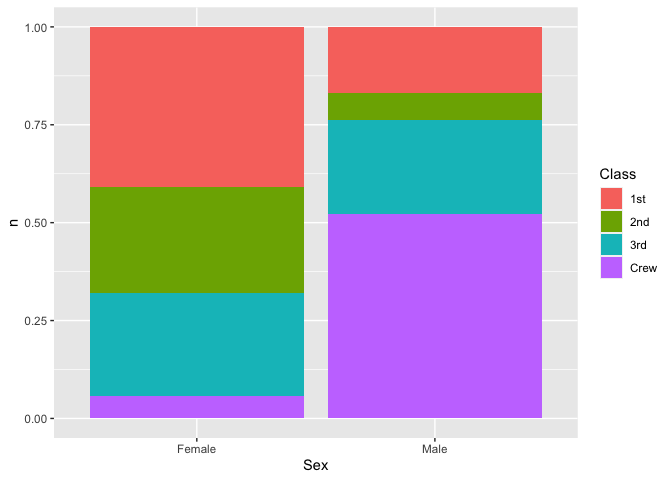
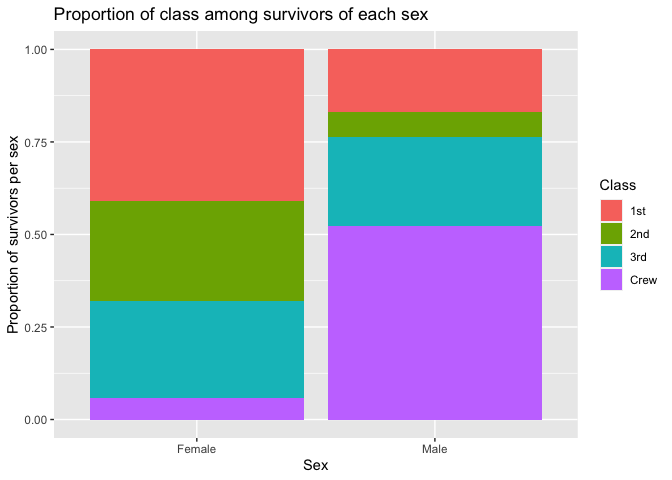
Titanic 1st draft complete

diff --git a/c01-titanic-assignment.md b/c01-titanic-assignment.md
@@ -5,6 +5,7 @@ Angela Sharer
 
   - [First Look](#first-look)
   - [Deeper Look](#deeper-look)
+      - [Conclusions](#conclusions)
       - [Purpose and Reading](#purpose-and-reading)
   - [Grading Rubric](#grading-rubric)
       - [Individual](#individual)
@@ -88,16 +89,17 @@ below.
 df_titanic %>%
   filter(Survived == "Yes") %>%
   ggplot() +
-    geom_col(mapping = aes(x = Class, y = n, fill = Sex))
+    geom_col(mapping = aes(x = Class, y = n, fill = Sex)) +
+    labs(
+      title = "Survivors (passengers and crew) by class and sex", 
+      y = "Number of survivors"
+    )
 ```
 
 ![](c01-titanic-assignment_files/figure-gfm/q3-task%20-%20class%20and%20sex%20counts,%20focused%20on%20class-1.png)<!-- -->
 
 **Observations**:
 
-  - Most survivors from 1st and 2nd class were women.
-  - 3rd class survivors were more balanced in gender.
-  - Crew survivors were mostly male.
   - More crew survived than any other class, which surprises me
     slightly. (Will need to compare totals for these groups.)
   - Among paying passengers, more 1st class passengers survived than
@@ -105,6 +107,9 @@ df_titanic %>%
   - More 3rd class passengers survived than 2nd class passengers, which
     also surprises me slightly. (Will need to compare totals for these
     groups.)
+  - Most survivors from 1st and 2nd class were women.
+  - 3rd class survivors were more balanced in gender.
+  - Crew survivors were mostly male.
 
 <!-- end list -->
 
@@ -113,41 +118,73 @@ df_titanic %>%
 df_titanic %>%
   filter(Survived == "Yes") %>%
   ggplot() +
-    geom_col(mapping = aes(x = Class, y = n, fill = Sex), position = "fill")
-```
-
-![](c01-titanic-assignment_files/figure-gfm/q3-task%20-%20class%20and%20sex%20counts,%20focused%20on%20class%20proportion-1.png)<!-- -->
-
-**Observations**: - Proportionally, women in the richer classes (1st and
-2nd) made up more of the survivors than did those from 3rd class, and
-much more than the crew. - Without looking at the base proportions,
-though, it’s not clear what this means.
-
-``` r
-## TASK: Visualize counts against `Class` and `Sex`
-df_titanic %>%
-  filter(Survived == "Yes") %>%
-  ggplot() +
-    geom_col(mapping = aes(x = Sex, y = n, fill = Class))
+    geom_col(mapping = aes(x = Sex, y = n, fill = Class)) +
+    labs(
+      title = "Survivors (passengers and crew) by sex and class", 
+      y = "Number of survivors"
+    )
 ```
 
 ![](c01-titanic-assignment_files/figure-gfm/q3-task%20-%20class%20and%20sex%20counts,%20focused%20on%20sex-1.png)<!-- -->
 
 **Observations**:
 
-  - Ultimately, more men than women survived, but not by much.
-  - If we exclude crew members, the reverse would be true: female
-    survivors among passengers far outnumber the male survivors in this
-    group. (It’s just the male crew members that throw things off here.)
+  - Ultimately, more men than women survived, but not by much. (How does
+    this compare to the base populations on the ship, though?)
 
 <!-- end list -->
+
+``` r
+df_titanic %>%
+  filter(Survived == "Yes", Class != "Crew") %>%
+  ggplot() +
+    geom_col(mapping = aes(x = Sex, y = n, fill = Class)) +
+    labs(
+      title = "Surviving passengers by sex and class",
+      y = "Number of survivors"
+    )
+```
+
+![](c01-titanic-assignment_files/figure-gfm/q3-task%20-%20class%20and%20sex%20counts,%20focused%20on%20sex,%20no%20crew-1.png)<!-- -->
+
+**Observations**:
+
+  - If we exclude crew members, the reverse is true: female survivors
+    among passengers far outnumber the male survivors in this group.
+    (It’s just the male crew members that throw things off in the
+    previous visualization.)
+
+<!-- end list -->
+
+``` r
+## TASK: Visualize counts against `Class` and `Sex`
+df_titanic %>%
+  filter(Survived == "Yes") %>%
+  ggplot() +
+    geom_col(mapping = aes(x = Class, y = n, fill = Sex), position = "fill") +
+    labs(
+      title = "Proportion of the sexes among survivors of each class", 
+      y = "Proportion of survivors per class"
+    )
+```
+
+![](c01-titanic-assignment_files/figure-gfm/q3-task%20-%20class%20and%20sex%20counts,%20focused%20on%20class%20proportion-1.png)<!-- -->
+
+**Observations**: - Proportionally, women in the richer classes (1st and
+2nd) made up more of the survivors from those classes than did those
+from 3rd class, and much more than the crew. - Without looking at the
+base proportions, though, it’s not clear what this means.
 
 ``` r
 ## TASK: Visualize counts against `Class` and `Sex`
 df_titanic %>% 
   filter(Survived == "Yes") %>%
   ggplot() +
-    geom_col(mapping = aes(x = Sex, y = n, fill = Class), position = "fill")
+    geom_col(mapping = aes(x = Sex, y = n, fill = Class), position = "fill") +
+    labs(
+      title = "Proportion of class among survivors of each sex", 
+      y = "Proportion of survivors per sex"
+    )
 ```
 
 ![](c01-titanic-assignment_files/figure-gfm/q3-task%20-%20class%20and%20sex%20counts,%20focused%20on%20sex,%20by%20proportion-1.png)<!-- -->
@@ -203,9 +240,36 @@ df_prop
 `n`. Document your observations, and note any new/different observations
 you make in comparison with q3.
 
+``` r
+df_prop %>%
+  filter(Survived == "Yes", !is.na(Prop)) %>%
+  ggplot() +
+    geom_boxplot(mapping = aes(x = Class, y = Prop, color = Sex)) +
+    labs(
+      title = "Proportion of survivors by class and sex", 
+      y = "Proportion of survivors"
+    )
+```
+
+![](c01-titanic-assignment_files/figure-gfm/q4-task%20-%20class%20and%20sex%20proportions-1.png)<!-- -->
+
 **Observations**:
 
-  - Write your observations here.
+  - Most of the women and girls in first class survived.
+  - Women and girls in second class were slightly less likely to survive
+    than those in first class, but ultimately most of them did survive.
+  - Most women crew members survived, and they were much more likely to
+    survive than women and girls in 3rd class, and than male crew
+    members.
+  - Meanwhile, male crew members were about as likely to survive as the
+    men and boys in 3rd class (and neither of those groups were very
+    likely to survive).
+  - In all classes, women and girls were generally more likely to
+    survive than men and boys of the same class.
+  - There was substantial variation in male survival in both the first
+    and second classes; I would hypothesize that the children (boys)
+    were much more likely to survive than the adult men.
+  - Most people of any age or gender in 3rd class did not survive.
 
 **q5** Create a plot showing the group-proportion of passengers who
 *did* survive, along with aesthetics for `Class`, `Sex`, *and* `Age`.
@@ -214,9 +278,86 @@ Document your observations below.
 *Hint*: Don’t forget that you can use `facet_grid` to help consider
 additional variables\!
 
+``` r
+df_prop %>%
+  filter(Survived == "Yes", !is.na(Prop)) %>%
+  ggplot() +
+    geom_col(
+      mapping = aes(x = Class, y = Prop, fill = Sex), 
+      position = "dodge"
+    ) +
+    facet_grid(. ~ Age)
+```
+
+![](c01-titanic-assignment_files/figure-gfm/q5-task%20survivors%20by%20class,%20sex,%20and%20age,%202%20x%201%20grid-1.png)<!-- -->
+
 **Observations**:
 
-  - Write your observations here.
+  - In 1st and 2nd class, almost all children survived, and they
+    out-survived adults of any sex/class.
+
+<!-- end list -->
+
+``` r
+df_prop %>%
+  filter(Survived == "Yes", !is.na(Prop)) %>%
+  ggplot() +
+    geom_col(mapping = aes(x = Sex, y = Prop, fill = Sex), position = "dodge") +
+    facet_grid(Class ~ Age)
+```
+
+![](c01-titanic-assignment_files/figure-gfm/q5-task%20survivors%20by%20class,%20sex,%20and%20age,%202%20x%204%20grid-1.png)<!-- -->
+
+**Observations**:
+
+  - In 1st and 2nd class, almost all children survived, and they
+    out-survived adults of any sex/class.
+  - Boys were always more likely to survive than men of the same class.
+
+<!-- end list -->
+
+``` r
+df_prop %>%
+  filter(Survived == "Yes", !is.na(Prop)) %>%
+  ggplot() +
+    geom_col(
+      mapping = aes(x = Age, y = Prop, color = Age), 
+      position = "dodge"
+    ) +
+    facet_grid(Sex ~ Class)
+```
+
+![](c01-titanic-assignment_files/figure-gfm/q5-task%20survivors%20by%20class,%20sex,%20and%20age,%202%20x%204%20grid%20focused%20on%20age%20comparisons-1.png)<!-- -->
+
+**Observations**:
+
+  - In 1st and 2nd class, almost all children survived, and they
+    out-survived adults of any sex/class.
+  - Boys were always more likely to survive than men of the same class
+    (except the crew, which had no children).
+  - However, adult women slightly out-survived girls in 3rd class.
+
+## Conclusions
+
+  - The best way to survive the Titanic overall was to be a wealthy
+    child (1st or 2nd class).
+  - Other than wealthy children, wealthy women were most likely to
+    survive (1st or 2nd class, but especially 1st).
+  - After wealthy children and women, female crew members were also
+    relatively likely to survive.
+  - Among women and girls, the worst chances for survival were in 3rd
+    class, but it was still better to be female than male there.
+  - Adult men’s survival chances were generally not good, but among this
+    group, the best chance for survival was in first class, followed by
+    being a crew member. Interestingly, the worst class for adult men
+    was 2nd.
+  - Other than adult men (who survived more in 3rd class than in 2nd),
+    3rd class was universally the worst class to be in for each age/sex
+    group.
+  - As a sidebar social commentary, Titanic is a nearly perfect example
+    of how catastrophic events always hit the poor the hardest. The
+    children’s survival rates in 3rd class were abysmal, and perfect or
+    nearly perfect in 1st and 2nd class. This is tragic.
 
 ## Purpose and Reading
 
